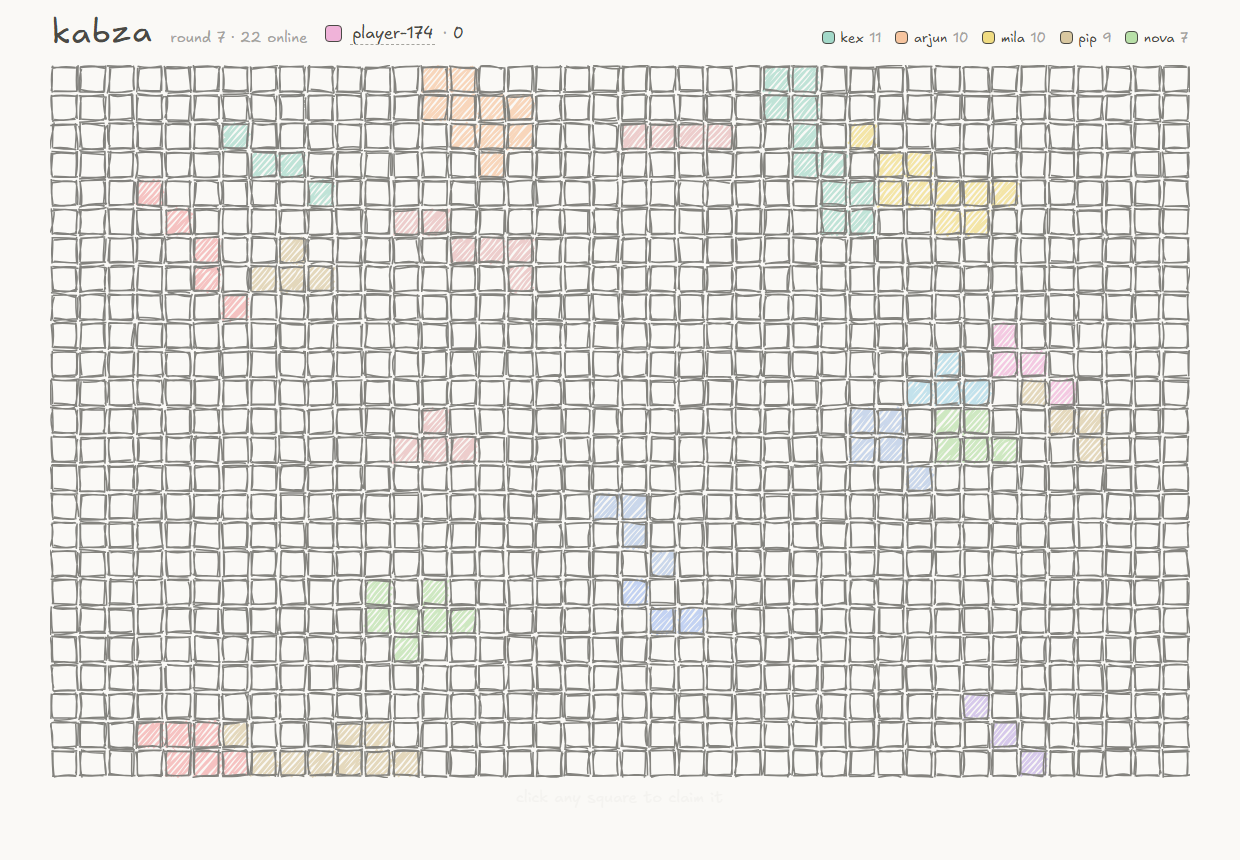
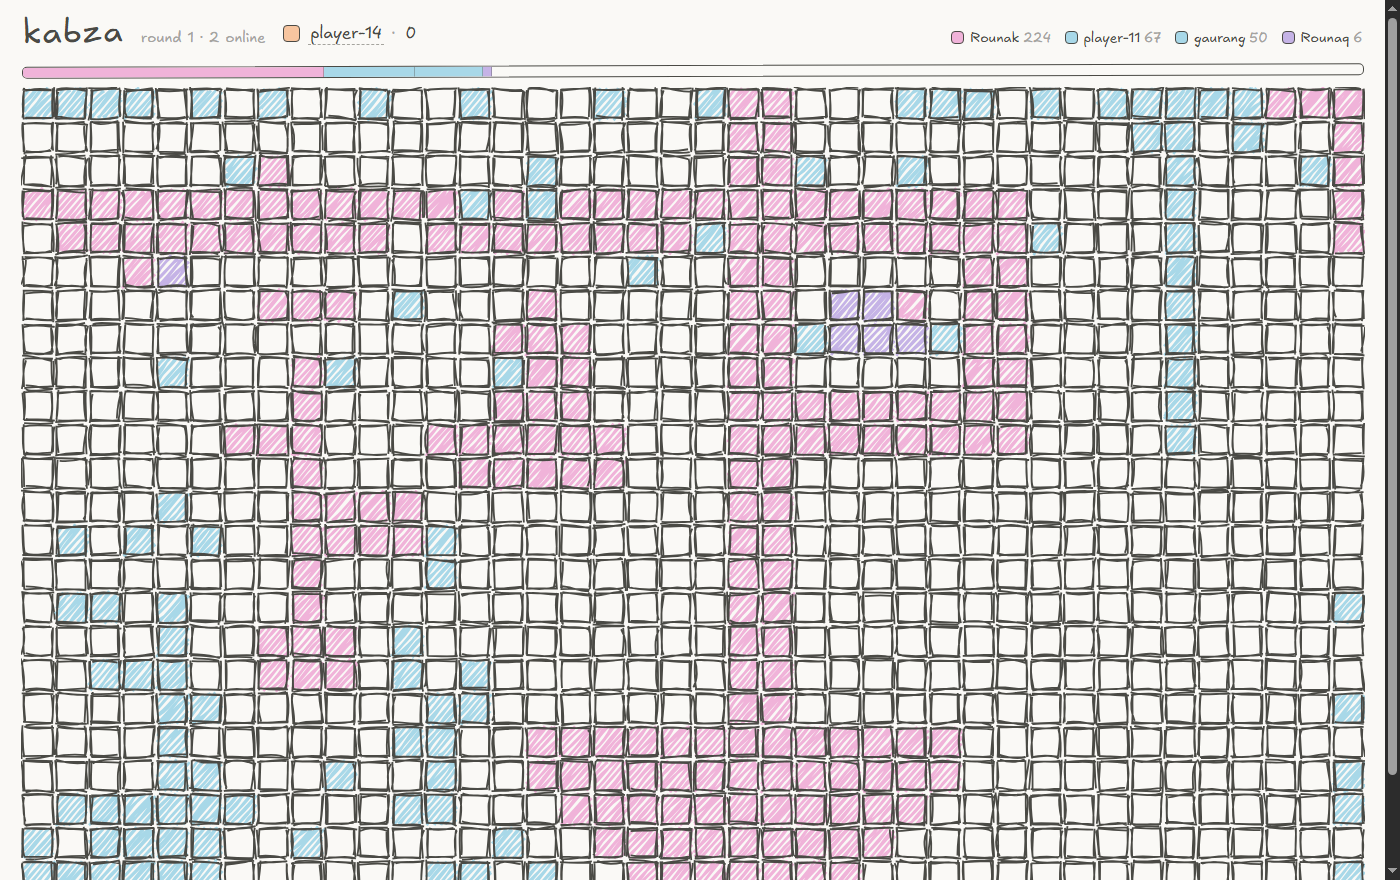
Reworked the readme, added the diagram and a real board pic

diff --git a/README.md b/README.md
@@ -1,10 +1,16 @@
 # kabza
 
+**Play it: [kabza.psyduck.in](https://kabza.psyduck.in)** (works on phone too)
+
 A shared board of 1000 hand drawn cells. Open the site, click a square and it's yours. Everyone else sees it in under 100ms. When the board fills up, a winner is shown, the board freezes for 10 seconds and a fresh round starts on its own.
 
-![the board mid-round](docs/board.png)
+![the live board, mid-round](docs/board.png)
 
-No signup. You get a color and a name like player-7 the moment you open it, and you can rename yourself from the top bar while playing.
+No signup. You get a color and a name like player-7 the moment you open it. First-timers get a small welcome card (the live board keeps playing behind it), and you can rename yourself from the top bar any time.
+
+## how it works
+
+![how it works](docs/diagram.png)
 
 ## run it
 
@@ -31,7 +37,7 @@ npm run hammer     # 40 fake users spam claims, then it checks all counts still 
 
 Config is just env vars: `PORT`, `DB_PATH`, `ADMIN_TOKEN`. VPS setup lives in [deploy/DEPLOY.md](deploy/DEPLOY.md).
 
-## how it talks
+## the protocol
 
 One websocket per tab, plain JSON. I used raw `ws` instead of socket.io because writing the protocol myself was the point of this project. All message types are in [shared/src/protocol.ts](shared/src/protocol.ts).
 
@@ -60,7 +66,7 @@ Claiming a cell you already own just gets an ok again. That makes retries after 
 
 ## why it feels instant
 
-Your click paints the cell right away, before the server even answers. If the server says no, the cell shakes and goes back. The ack carries the version number so the cell can settle immediately instead of flashing while waiting for the broadcast.
+Your click paints the cell right away, before the server even answers. If the server says no, the cell shakes and goes back. The ack carries the version number so the cell can settle immediately instead of flashing while waiting for the broadcast. A little +1 floats off the cell when it's confirmed.
 
 ## storage
 
@@ -76,13 +82,17 @@ A public reset button on a shared board is just griefing, so there isn't one. Bo
 
 ## rate limit
 
-1 claim per second with a burst of 3, per user (GCRA, about 25 lines). Too fast gets a nack with the wait time and the UI shows a small ring. I've shipped this same algorithm in a webhook delivery pipeline before, it's my favorite tiny limiter.
+1 claim per second with a burst of 3, per user (GCRA, about 25 lines). Too fast gets a nack with the wait time, a draining ring on the cell you clicked, and a one-time toast telling new players the limit. I've shipped this same algorithm in a webhook delivery pipeline before, it's my favorite tiny limiter.
 
-The hammer script is the proof: 40 users clicking 4x over the limit. On my machine acks come back in about 1ms, other clients see a claim in about 60ms, and at the end the acks, the snapshot, memory and sqlite all agree exactly.
+The hammer script is the proof: 40 users clicking 4x over the limit. On my machine:
+
+- claim to ack: ~1ms
+- claim to another client seeing it: ~60ms (p95 64ms)
+- at the end, acks == snapshot == memory == sqlite, exactly
 
 ## the look
 
-rough.js rectangles on one big svg, each cell drawn with a fixed seed so it never wiggles between redraws. Excalifont for the text (open license, bundled in the repo). Colors are 12 fixed pastels picked by hashing the user id, never random.
+rough.js rectangles on one big svg, each cell drawn with a fixed seed so it never wiggles between redraws. Excalifont for the text (open license, bundled in the repo). Colors are 12 fixed pastels picked by hashing the user id, never random. Hover a claimed cell to see whose it is.
 
 ## choices i made
 
